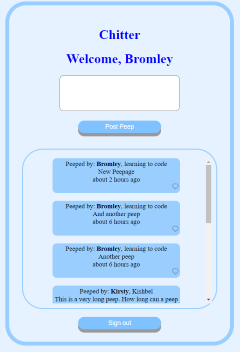
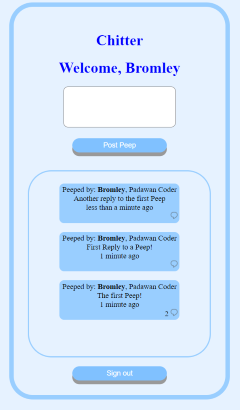
Added peep reply count indicator to main page

Changed region(s): [[0.0, 0.0, 0.9917, 1.0], [0.2333, 0.0625, 0.7583, 0.3125], [0.7, 0.2188, 0.7583, 0.3125]]

diff --git a/spec/peep_spec.rb b/spec/peep_spec.rb
@@ -40,8 +40,8 @@ describe Peep do
 
     it 'creates a peep with a parent_peep_id' do
       user = create_test_user
-      peep = Peep.create(peep: "test peep", user_id: user.id, parent_peep_id: user.id)
-      expect(peep.parent_peep_id).to eq user.id
+      peep = Peep.create(peep: "test peep", user_id: user.id, parent_peep_id: 1)
+      expect(peep.parent_peep_id).to eq "1"
     end
   end
 
@@ -59,6 +59,15 @@ describe Peep do
       expect(peeps.first.user_id).to eq peep.user_id
       # add in canned mock created_by...
       expect(peeps.first.peep).to eq "The end is nigh"
+    end
+  end
+
+  describe '.reply_count' do
+    it 'gets the count of peeps that have replied to a peep' do
+      user = create_test_user
+      peep = Peep.create(peep: "Wow, that's so cool", user_id: user.id, parent_peep_id: '')
+      Peep.create(peep: "Wow, that's so cool", user_id: user.id, parent_peep_id: peep.id)
+      expect(Peep.reply_count(peep_id: peep.id)).to eq "1"
     end
   end
 end

diff --git a/lib/peep.rb b/lib/peep.rb
@@ -41,6 +41,11 @@ class Peep
     end.first
   end
 
+  def self.reply_count(peep_id:)
+    result = DatabaseConnection.query("SELECT COUNT(*) AS result FROM peeps WHERE parent_peep_id = #{peep_id}") 
+    result[0]['result'].to_i > 0 ? result[0]['result'] : ""
+  end
+
   attr_reader :id, :peep, :created_at, :user_id, :parent_peep_id
 
   def initialize(id:, peep:, created_at:, user_id:, parent_peep_id:)

diff --git a/spec/features/reply_to_peep_spec.rb b/spec/features/reply_to_peep_spec.rb
@@ -15,7 +15,10 @@ feature "reply to a peep" do
     click_link("reply")
     fill_in('peep', with: 'I have replied')
     click_button('Post Reply')
+    reply_count = find('label.reply_count', text: "1", match: :prefer_exact )
+    expect(reply_count).to have_content("1")
     expect(page).to have_content("I have replied")
+
   end
 
   scenario "Cannot reply to a peep if not logged on" do

diff --git a/spec/features/create_peep_spec.rb b/spec/features/create_peep_spec.rb
@@ -9,6 +9,11 @@ feature "posting a message" do
     click_button('Post Peep')
 
     expect(page).to have_content("Hello World")
-
   end
+
+  scenario "cannot post a peep if not logged in" do
+    visit "/"
+    expect(page).to_not have_content("Post Peep")
+  end
+
 end

diff --git a/spec/features/view_all_peeps_spec.rb b/spec/features/view_all_peeps_spec.rb
@@ -46,5 +46,5 @@ feature "viewing all peeps" do
     expect(page).to have_content(", #{user.user_name}")
   end
   
-
+  
 end
